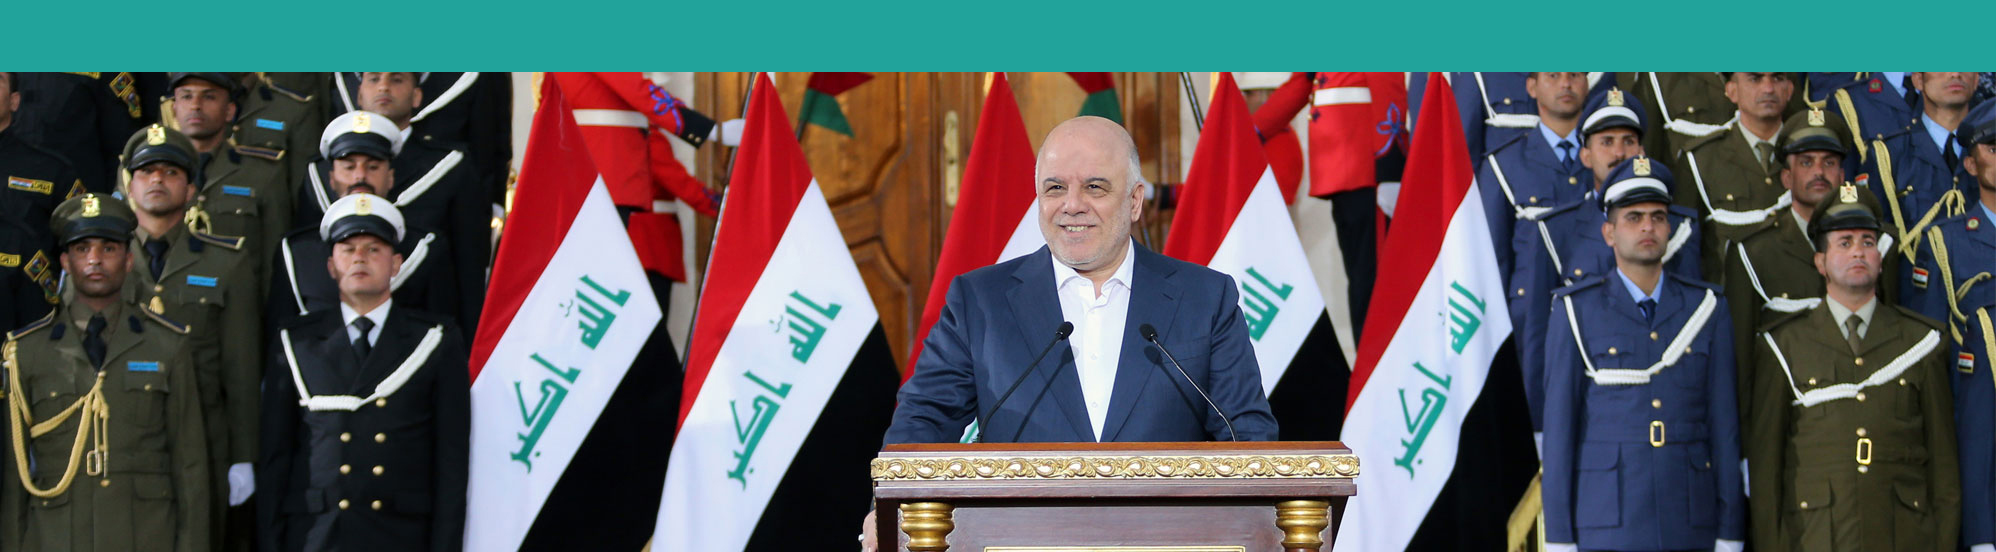
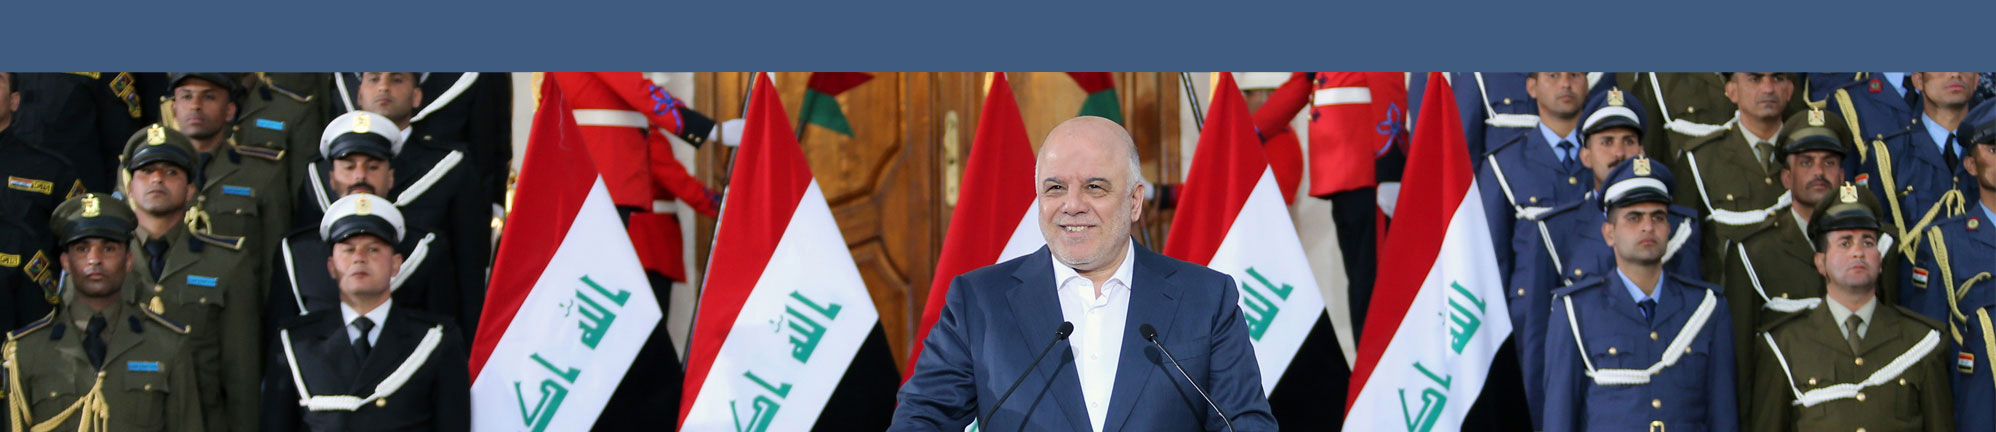
change the color

diff --git a/src/app/home/home.component.ts b/src/app/home/home.component.ts
@@ -1,4 +1,5 @@
 import { Component, OnInit } from '@angular/core';
+import { Meta } from '@angular/platform-browser';
 import { DatePipe } from '@angular/common';
 import { AppRoutingModule } from '../app-routing.module';
 import { PaginationService } from '../services/pagination.service';
@@ -6,7 +7,7 @@ import { Observable } from 'rxjs/Observable';
 
 @Component({
   selector: 'app-home',
-  templateUrl:'./home.component.html',
+  templateUrl: './home.component.html',
   styleUrls: ['./home.component.scss']
 })
 export class HomeComponent implements OnInit {
@@ -15,20 +16,27 @@ export class HomeComponent implements OnInit {
   PMO = 'المكتب الاعلامي لرئاسة الوزراء';
   in = 'في';
 
-  constructor(public page: PaginationService) {}
+  constructor(public page: PaginationService,meta: Meta) {
+
+    meta.addTags([
+      { name: 'author',   content: 'المكتب الاعلامي لرئاسة الوزراء'},
+      { name: 'keywords', content: 'د. حيدر العبادي  ::: رئيس وزراء جمهورية العراق '},
+      { name: 'description', content: 'د. حيدر العبادي  ::: رئيس وزراء جمهورية العراق ' }
+    ]);
+  }
 
   ngOnInit() {
     this.page.reset();
-   this.page.init('postesArabic', 'creatAt', 4, { reverse: false, prepend: false })
-   //const recentItem = [];
-  // this.page.data.forEach(item => console.log(item))
+    this.page.init('postesArabic', 'creatAt', 4, { reverse: false, prepend: false })
+    //const recentItem = [];
+    // this.page.data.forEach(item => console.log(item))
   }
 
   scrollHandler(e) {
     if (e === 'bottom') {
       this.page.more()
     }
-     if (e === 'top') {
+    if (e === 'top') {
       this.page.more()
     }
   }

diff --git a/src/app/add-item/add-item.component.ts b/src/app/add-item/add-item.component.ts
@@ -8,6 +8,7 @@ import { AngularFirestore } from 'angularfire2/firestore';
 import { AngularFireStorage, AngularFireUploadTask } from 'angularfire2/storage';
 import { Observable } from 'rxjs/Observable';
 import { tap } from 'rxjs/operators';
+import { ToastService } from 'ng-mdb-pro/pro/alerts/toast/toast.service';
 
 @Component({
   selector: 'app-add-item',
@@ -43,7 +44,10 @@ export class AddItemComponent {
     // State for dropzone CSS toggling
     isHovering: boolean;
   
-  constructor(private itemService: ItemService,private storage: AngularFireStorage,private db: AngularFirestore) {}
+  constructor(private itemService: ItemService,
+              private storage: AngularFireStorage,
+              private db: AngularFirestore,
+              private toastrService: ToastService) {}
 
   onSubmit(){
     if(this.item.title != '' && this.item.content != ''){
@@ -69,7 +73,9 @@ export class AddItemComponent {
 
     // Client-side validation example
     if (file.type.split('/')[0] !== 'image') { 
-      console.error('unsupported file type :( ')
+      let options = { enableHtml: false,  positionClass: 'toast-bottom-center' };
+      this.toastrService.error('', 'هناك خطأ',options)
+      //console.error('unsupported file type :( ')
       return;
     }
 

diff --git a/src/app/navbar/navbar.component.ts b/src/app/navbar/navbar.component.ts
@@ -1,13 +1,14 @@
-import { Component} from '@angular/core';
+import { Component, OnInit } from '@angular/core';
 import { AppRoutingModule } from '../app-routing.module';
 import { DeclarationComponent } from '../declaration/declaration.component';
+import { NetworkStatusService } from 'ng-network-status';
 
 @Component({
   selector: 'app-navbar',
   templateUrl: './navbar.component.html',
   styleUrls: ['./navbar.component.scss']
 })
-export class NavbarComponent {
+export class NavbarComponent implements OnInit {
   searchPlaceholder = 'بحث';
   PMO = 'المكتب الاعلامي لرئاسة الوزراء';
   admin = ' تسجيل الدخول ';
@@ -18,6 +19,14 @@ export class NavbarComponent {
   speeches = ' كلمات ';
   declaration = ' البيانات ';
 
-  constructor() {}
+  networkStatus = "Online";
 
+  constructor(private networkStatusService: NetworkStatusService) { }
+  ngOnInit() {
+    this.networkStatusService.healthCheck();
+    // Subscribe on network status change event 
+    this.networkStatusService.isOnline.subscribe(isOnline => {
+      this.networkStatus = isOnline ? "Online" : "Offline";
+    });
+  }
 }

diff --git a/src/app/app.component.ts b/src/app/app.component.ts
@@ -1,5 +1,6 @@
 import { Component } from '@angular/core';
 import { AppRoutingModule } from './app-routing.module';
+import {Meta, Title} from '@angular/platform-browser';
 
 @Component({
   selector: 'app-root',
@@ -7,4 +8,17 @@ import { AppRoutingModule } from './app-routing.module';
   styleUrls: ['./app.component.scss']
 })
 export class AppComponent {
+
+  constructor(meta: Meta, title: Title){
+
+    title.setTitle('المكتب الاعلامي لرئاسة الوزراء');
+
+    meta.addTags([
+      { name: 'author',   content: 'المكتب الاعلامي لرئاسة الوزراء'},
+      { name: 'keywords', content: 'د. حيدر العبادي  ::: رئيس وزراء جمهورية العراق '},
+      { name: 'description', content: 'د. حيدر العبادي  ::: رئيس وزراء جمهورية العراق ' }
+    ]);
+  }
+  
+
 }

diff --git a/src/app/home/home.component.html b/src/app/home/home.component.html
@@ -29,7 +29,7 @@
             <!--Grid column-->
             <div class="col-lg-7 col-xl-6">
               <!--Excerpt-->
-              <a href="" class="green-text">
+              <a href="" class="blue-text">
                 <h6 class="font-bold pb-1">
                   <i class="fa fa-newspaper-o"></i>  {{post.type}}</h6>
               </a>
@@ -39,7 +39,7 @@
               <p>
                 <strong>{{post.by}} {{in}}  </strong>
                 {{post.creatAt | date:"short"}}</p>
-               <a [routerLink]="['/details/'+post.id]" class="btn btn-success mb-3 waves-light" mdbRippleRadius >{{readMore}}</a>
+               <a [routerLink]="['/details/'+post.id]" class="btn btn-info  waves-light" mdbRippleRadius >{{readMore}}</a>
             </div>
             <!--Grid column-->
           </div>

diff --git a/src/app/app.module.ts b/src/app/app.module.ts
@@ -54,6 +54,8 @@ import { InputTrimModule } from 'ng2-trim-directive';
 import { MdbootstrapIconService } from './services/fate-icon.service';
 import { ToastModule } from 'ng-mdb-pro/pro/alerts/toast/toast.module';
 
+import { NgNetworkStatusModule } from 'ng-network-status';
+
 //import { AuthGuard } from './auth.guard';
 
 @NgModule({
@@ -81,6 +83,7 @@ import { ToastModule } from 'ng-mdb-pro/pro/alerts/toast/toast.module';
   ],
   imports: [
     BrowserModule,
+    NgNetworkStatusModule.forRoot(),
     AppRoutingModule,
     FormsModule,
     MDBBootstrapModules.forRoot(),
@@ -92,6 +95,7 @@ import { ToastModule } from 'ng-mdb-pro/pro/alerts/toast/toast.module';
     FateModule,
     InputTrimModule,
     ToastModule.forRoot()
+
   ],
   exports: [BrowserModule],
   schemas: [NO_ERRORS_SCHEMA],

diff --git a/src/app/navbar/navbar.component.html b/src/app/navbar/navbar.component.html
@@ -1,7 +1,7 @@
 <!--Double navigation-->
 <header>
     <!-- Sidebar navigation -->
-    <mdb-sidenav #sidenav class="default-color fixed" [fixed]="false" >
+    <mdb-sidenav #sidenav class="sn-bg-1 fixed" [fixed]="false" >
             <logo>
                 <!-- Logo -->
                     <li>
@@ -118,7 +118,7 @@
     </mdb-sidenav>
     <!--/. Sidebar navigation -->
     <!-- Navbar -->
-    <mdb-navbar SideClass="navbar fixed-top navbar-toggleable-md navbar-expand-lg scrolling-navbar ie-nav double-nav bg-default"
+    <mdb-navbar SideClass="navbar fixed-top navbar-toggleable-md navbar-expand-lg scrolling-navbar ie-nav double-nav"
         [containerInside]="false">
         <logo>
             <navlinks class="navbar-container" >

diff --git a/side-nav/side-nav.component.html b/side-nav/side-nav.component.html
@@ -1,14 +1,14 @@
 <!-- SideNav slide-out button -->
 <!-- <a (click)="sidenav.toggle()" class="btn btn-primary p-3 button-collapse default-color-dark"><i class="fa fa-bars" ></i></a> -->
 <div class="float-left" >
-        <a (click)="sidenav.show()" class="button-collapse">
+        <a (click)="sidenav.show()" class="btn btn-primary p-3 button-collapse">
             <i class="fa fa-bars"></i>
         </a>
     </div>
 <!--/. SideNav slide-out button -->
 
 <!-- Sidebar navigation -->
-<mdb-sidenav #sidenav class="fixed" class="default-color-dark" [fixed]="true">
+<mdb-sidenav #sidenav class="fixed"  [fixed]="true">
     <!-- Logo -->
     <li>
         <div class="logo-wrapper waves-light" style="padding-bottom:160px">

diff --git a/src/app/admin/admin.component.html b/src/app/admin/admin.component.html
@@ -24,7 +24,7 @@
                   <label for="password">{{Password}}</label>
                   <input type="password" name="password" id="password" [(ngModel)]="password" class="form-control">
                 </div>
-                <input type="submit" value="{{SUBMIT}}" class="btn btn-primary btn-block btn-lg">
+                <input type="submit" value="{{SUBMIT}}" class="btn btn-info btn-block btn-lg">
               </form>
             </div>
           </div>

diff --git a/src/app/gallery/gallery.component.ts b/src/app/gallery/gallery.component.ts
@@ -20,7 +20,7 @@ images=[];
    // Item.forEach(res => console.log(res))
    Item.subscribe(items => {
     this.items = items;
-      console.log(items);
+     // console.log(items);
       this.items.forEach(res => 
         this.images.push(
           { "img": res.image , "thumb": res.thumbnail }
@@ -28,7 +28,7 @@ images=[];
         )
       );
     //  this.items = items;
-    console.log(this.images);
+    //console.log(this.images);
       
     });
 

diff --git a/src/app/search/search.component.ts b/src/app/search/search.component.ts
@@ -42,7 +42,7 @@ export class SearchComponent implements OnInit {
      // console.log(items);
       this.items = items;
       this.items.forEach(res => this.searchData.push({ "title": res.title }));
-      console.log(this.searchData);
+      //console.log(this.searchData);
        if (!this.searchStr){
         this.page.init('postesArabic', 'title', this.searchStr, 4, { reverse: false, prepend: false })
       } 

diff --git a/src/index.html b/src/index.html
@@ -8,7 +8,7 @@
   <meta name="viewport" content="width=device-width, initial-scale=1">
   <link rel="icon" type="image/x-icon" href="favicon.ico">
 </head>
-<body>
+<body class="light-blue-skin">
   <app-root>
       <div class="text-center">
           <img src=".\assets\images\3.gif" align="middle">
